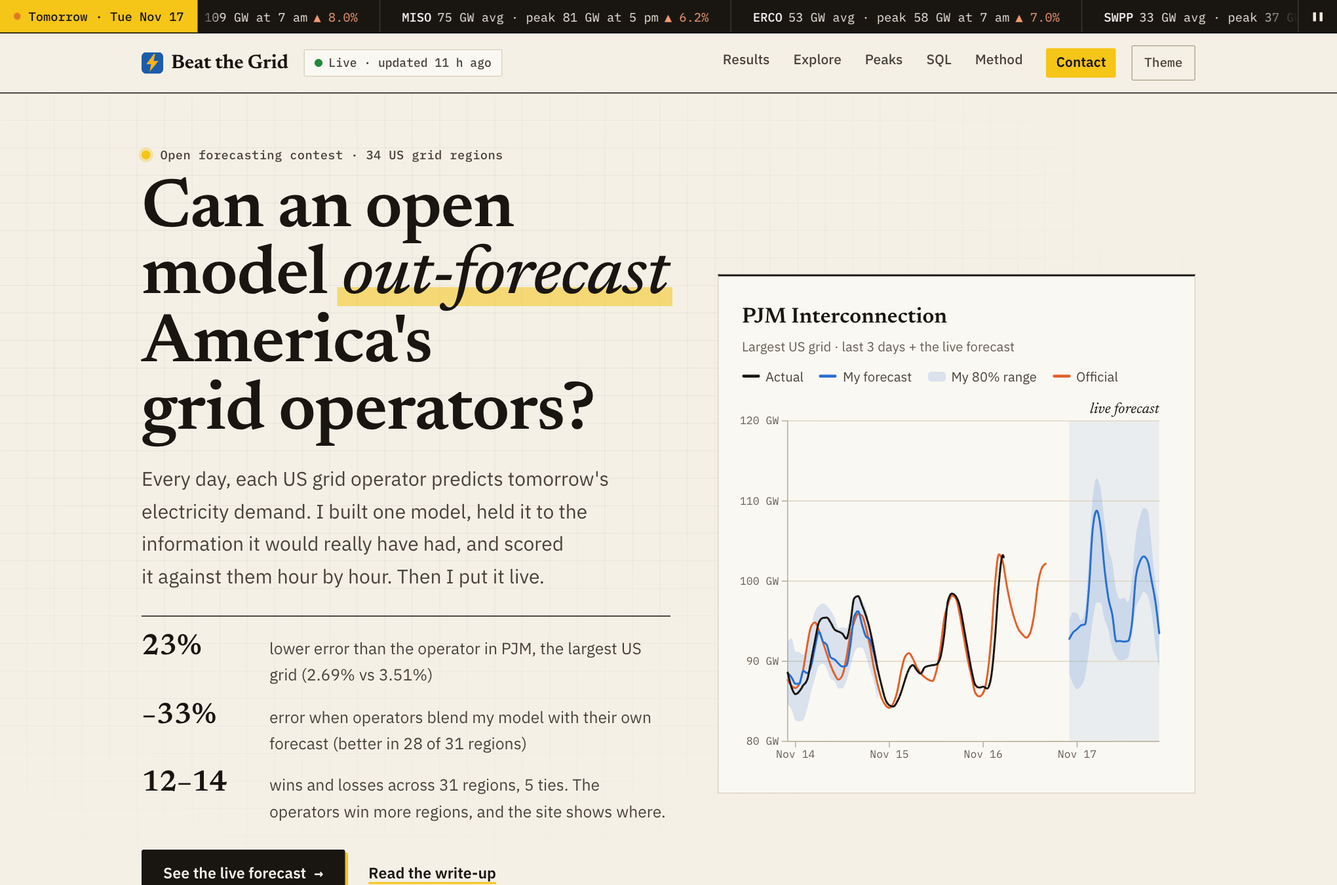
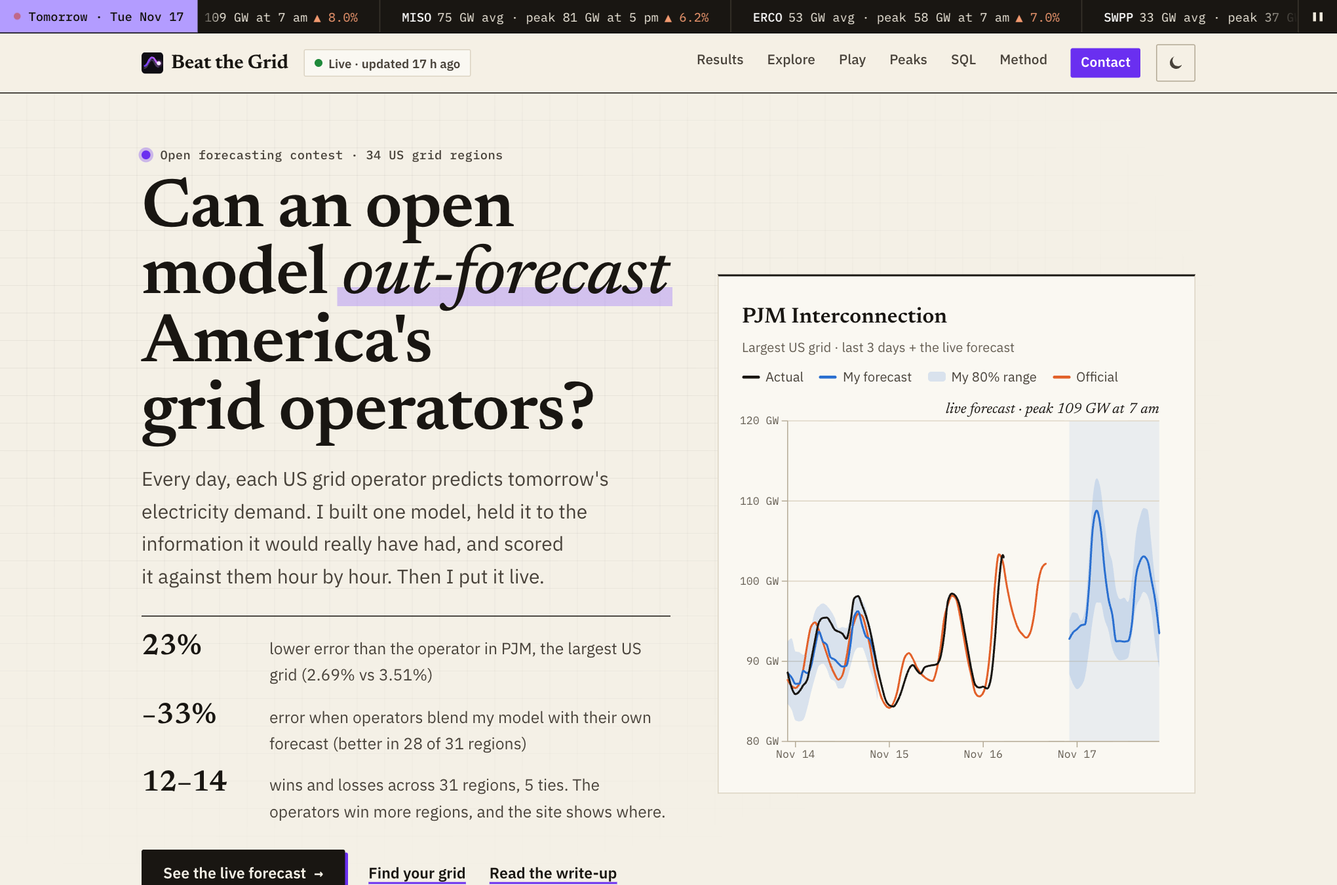
Violet brand accent, less mono, shorter blend table

diff --git a/docs/style.css b/docs/style.css
@@ -11,7 +11,7 @@
 @font-face{font-family:"IBM Plex Mono";src:url("fonts/ibm-plex-mono-latin-400-normal.woff2") format("woff2");font-weight:400;font-style:normal;font-display:swap}
 @font-face{font-family:"IBM Plex Mono";src:url("fonts/ibm-plex-mono-latin-500-normal.woff2") format("woff2");font-weight:500 900;font-style:normal;font-display:swap}
 
-/* Palette: newsprint and ink, with one high-voltage yellow used sparingly */
+/* Palette: newsprint and ink, with one violet brand accent (the logo's) used sparingly */
 :root{
   color-scheme: light;
   --font: "IBM Plex Sans", system-ui, -apple-system, "Segoe UI", sans-serif;
@@ -23,7 +23,7 @@
   --ours:#2a6fd0; --ours-band:rgba(42,111,208,.16); --official:#e2612a; --actual:#191612; --ours-text:#1b4f97; --official-text:#a1401a;
   --good:#1f8a3b; --good-text:#1d6b33; --bad:#c9412f; --tie:#8a8375; --warn:#a86d00; --mid:#e3dccb;
   --live:rgba(42,111,208,.08);
-  --volt:#f5c518; --you:#7a3cff; --hl:rgba(245,197,24,.55); --paper-line:rgba(25,22,18,.055);
+  --brand:#6a2ff0; --brand-ink:#fff; --brand-bright:#b39cff; --you:var(--brand); --hl:rgba(140,95,255,.32); --paper-line:rgba(25,22,18,.055);
   --shadow:none;
   --s1:4px; --s2:8px; --s3:12px; --s4:16px; --s5:24px; --s6:32px; --s7:48px; --s8:88px;
   --r-sm:3px; --r:3px; --r-lg:4px;
@@ -37,7 +37,7 @@
     --ours:#4b8fe8; --ours-band:rgba(75,143,232,.22); --official:#ec7440; --actual:#f2ede3; --ours-text:#8ab4f0; --official-text:#f39a70;
     --good:#3fb15f; --good-text:#62c47c; --bad:#e2705f; --tie:#8a8375; --warn:#e0a526; --mid:#2a2620;
     --live:rgba(75,143,232,.10);
-    --volt:#f5c518; --you:#b18cff; --hl:rgba(245,197,24,.28); --paper-line:rgba(242,237,227,.05);
+    --brand:#b39cff; --brand-ink:#14120f; --brand-bright:#b39cff; --you:var(--brand); --hl:rgba(160,125,255,.30); --paper-line:rgba(242,237,227,.05);
   }
 }
 :root[data-theme="dark"]{
@@ -48,7 +48,7 @@
   --ours:#4b8fe8; --ours-band:rgba(75,143,232,.22); --official:#ec7440; --actual:#f2ede3; --ours-text:#8ab4f0; --official-text:#f39a70;
   --good:#3fb15f; --good-text:#62c47c; --bad:#e2705f; --tie:#8a8375; --warn:#e0a526; --mid:#2a2620;
   --live:rgba(75,143,232,.10);
-  --volt:#f5c518; --you:#b18cff; --hl:rgba(245,197,24,.28); --paper-line:rgba(242,237,227,.05);
+  --brand:#b39cff; --brand-ink:#14120f; --brand-bright:#b39cff; --you:var(--brand); --hl:rgba(160,125,255,.30); --paper-line:rgba(242,237,227,.05);
 }
 
 /* ---- base ---- */
@@ -399,6 +399,7 @@ section.band-dark{
   --grid:#253043; --axis:#33405a; --ring:rgba(255,255,255,.10); --link:#7fb2ef;
   --ours:#3f8deb; --ours-band:rgba(63,141,235,.24); --official:#e5662f; --actual:#f0efec;
   --ours-text:#8dbbf2; --official-text:#f39a70; --live:rgba(63,141,235,.12);
+  --brand:#b39cff; --brand-ink:#0e1520; --hl:rgba(160,125,255,.30);
   --shadow:0 1px 2px rgba(0,0,0,.35),0 10px 30px rgba(0,0,0,.30);
   background:var(--page);color:var(--ink);border-top:0
 }
@@ -437,10 +438,10 @@ main{counter-reset:sec}
 section{counter-increment:sec;border-top:1px solid var(--ink)}
 section.alt{border-top-color:var(--ink)}
 .kicker{display:flex;align-items:center;gap:12px;font-family:var(--mono);font-size:12.5px;font-weight:500;letter-spacing:.02em;text-transform:none;color:var(--ink2);margin:0 0 var(--s4)}
-.kicker::before{content:counter(sec,decimal-leading-zero);font-weight:500;color:var(--ink);background:var(--volt);padding:1px 6px;border-radius:2px;color:#191612}
+.kicker::before{content:counter(sec,decimal-leading-zero);font-weight:500;background:var(--brand);padding:1px 6px;border-radius:2px;color:var(--brand-ink)}
 .kicker::after{content:"";flex:1;border-top:1px solid var(--grid);min-width:24px}
 .eyebrow{font-family:var(--mono);font-size:12.5px;font-weight:500;letter-spacing:.02em;text-transform:none;color:var(--ink2);display:inline-flex;align-items:center;gap:10px}
-.eyebrow::before{content:"";width:9px;height:9px;border-radius:50%;background:var(--volt);box-shadow:0 0 0 3px color-mix(in srgb,var(--volt) 30%,transparent)}
+.eyebrow::before{content:"";width:9px;height:9px;border-radius:50%;background:var(--brand);box-shadow:0 0 0 3px color-mix(in srgb,var(--brand) 30%,transparent)}
 
 /* Highlighter on the key phrase of each takeaway */
 .takeaway b,.lede b,.verdict-sub b{font-weight:600;background:linear-gradient(transparent 60%,var(--hl) 60%,var(--hl) 94%,transparent 94%)}
@@ -459,14 +460,14 @@ section.alt{border-top-color:var(--ink)}
 .hero-card{border:1px solid var(--ink);border-radius:2px;box-shadow:6px 6px 0 var(--ink)}
 .hero-card figcaption b{font-family:var(--serif);font-size:22px;font-weight:600}
 
-/* Buttons: ink block, volt on hover */
-.btn{background:var(--ink);color:var(--page);border-radius:2px;font-weight:600;box-shadow:3px 3px 0 var(--volt);transition:transform .12s,box-shadow .12s,background .12s}
+/* Buttons: ink block with a violet offset shadow */
+.btn{background:var(--ink);color:var(--page);border-radius:2px;font-weight:600;box-shadow:3px 3px 0 var(--brand);transition:transform .12s,box-shadow .12s,background .12s}
 .btn::after{content:"→";font-family:var(--mono);transition:transform .12s}
-.btn:hover{filter:none;transform:translate(-1px,-1px);box-shadow:4px 4px 0 var(--volt)}
+.btn:hover{filter:none;transform:translate(-1px,-1px);box-shadow:4px 4px 0 var(--brand)}
 .btn:hover::after{transform:translateX(3px)}
 :root[data-theme="dark"] .btn{color:var(--page)}
 @media (prefers-color-scheme: dark){:root:where(:not([data-theme="light"])) .btn{color:var(--page)}}
-.cta-row .secondary{text-decoration-color:var(--volt);text-decoration-thickness:2px;text-underline-offset:4px}
+.cta-row .secondary{text-decoration-color:var(--brand);text-decoration-thickness:2px;text-underline-offset:4px}
 
 /* Cards and tiles: ruled boxes, no floating shadows */
 .card{border:1px solid var(--grid);border-top:2px solid var(--ink);border-radius:0;box-shadow:none}
@@ -478,8 +479,8 @@ section.alt{border-top-color:var(--ink)}
 .verdict .of{font-family:var(--serif);font-style:italic;font-weight:400;font-size:clamp(20px,2.6vw,28px)}
 .why{border-radius:0;border:1px solid var(--grid);border-left:3px solid var(--ours);background:color-mix(in srgb,var(--ours) 5%,var(--surface))}
 .why h3{font-family:var(--serif);font-size:22px;font-weight:600}
-.live-tag{font-family:var(--mono);letter-spacing:.02em;text-transform:none;border-radius:2px;background:var(--volt);color:#191612;font-weight:500}
-.week{border-radius:0;border-left:3px solid var(--volt)}
+.live-tag{font-family:var(--mono);letter-spacing:.02em;text-transform:none;border-radius:2px;background:var(--brand);color:var(--brand-ink);font-weight:500}
+.week{border-radius:0;border-left:3px solid var(--brand)}
 .week h3{font-family:var(--serif);font-size:22px;font-weight:600}
 
 /* Data voice: mono for labels, axes, controls and table heads */
@@ -495,7 +496,7 @@ section.alt{border-top-color:var(--ink)}
 .tip{border-radius:2px;border:1px solid var(--ink);box-shadow:4px 4px 0 color-mix(in srgb,var(--ink) 18%,transparent)}
 .tip .t{font-family:var(--serif);font-size:15px}
 .pill{border-radius:2px;font-family:var(--mono);font-size:12px}
-.notice{border-radius:2px;border:1px solid var(--ink);box-shadow:5px 5px 0 var(--volt)}
+.notice{border-radius:2px;border:1px solid var(--ink);box-shadow:5px 5px 0 var(--brand)}
 .miss h3{font-family:var(--serif);font-size:22px;font-weight:600}
 .miss .when{font-family:var(--mono);font-size:12px}
 form input,form textarea{border-radius:2px}
@@ -505,11 +506,11 @@ form input,form textarea{border-radius:2px}
 .topnav{border-bottom:1px solid var(--ink)}
 .brand{font-family:var(--serif);font-size:20px;font-weight:650;letter-spacing:-.01em}
 .navlinks a{font-size:14px}
-.navcta{color:var(--ink)!important;background:var(--volt);padding:3px 10px;border-radius:2px;text-decoration:none}
+.navcta{color:var(--ink)!important;background:var(--brand);padding:3px 10px;border-radius:2px;text-decoration:none}
 
 /* Live ticker: tomorrow's forecast scrolling like a control-room board */
 .ticker{background:#191612;color:#efe9dc;font-family:var(--mono);font-size:12.5px;height:34px;overflow:hidden;position:relative;display:flex;align-items:center;border-bottom:1px solid #000}
-.ticker .tk-label{flex:none;height:100%;display:flex;align-items:center;gap:8px;padding:0 14px;background:var(--volt);color:#191612;font-weight:500;position:relative;z-index:1}
+.ticker .tk-label{flex:none;height:100%;display:flex;align-items:center;gap:8px;padding:0 14px;background:var(--brand-bright);color:#14120f;font-weight:500;position:relative;z-index:1}
 .ticker .tk-label::before{content:"";width:7px;height:7px;border-radius:50%;background:#c9412f;animation:tkblink 1.6s infinite}
 @keyframes tkblink{50%{opacity:.25}}
 .ticker .tk-view{flex:1;overflow:hidden;height:100%;display:flex;align-items:center;-webkit-mask-image:linear-gradient(90deg,transparent,#000 24px,#000 calc(100% - 40px),transparent);mask-image:linear-gradient(90deg,transparent,#000 24px,#000 calc(100% - 40px),transparent)}
@@ -536,11 +537,11 @@ section.band-dark .card{border-color:#253043;border-top-color:#f0efec}
 section.band-dark .tile{border-top-color:#3a4658}
 .ticker .tk-set{display:flex}
 .ticker a.tk-item{color:inherit;text-decoration:none}
-.ticker a.tk-item:hover b{text-decoration:underline;text-decoration-color:var(--volt)}
+.ticker a.tk-item:hover b{text-decoration:underline;text-decoration-color:var(--brand-bright)}
 .ticker.paused .tk-track{animation-play-state:paused}
 .ticker .tk-pause{flex:none;height:100%;width:38px;border:0;border-left:1px solid #3a352d;background:#191612;color:#efe9dc;font:inherit;font-size:11px;cursor:pointer}
-.ticker .tk-pause:hover{color:var(--volt)}
-.ticker .tk-pause:focus-visible,.ticker a.tk-item:focus-visible{outline:2px solid var(--volt);outline-offset:-2px}
+.ticker .tk-pause:hover{color:var(--brand-bright)}
+.ticker .tk-pause:focus-visible,.ticker a.tk-item:focus-visible{outline:2px solid var(--brand-bright);outline-offset:-2px}
 @media (prefers-reduced-motion: reduce){.ticker .tk-pause{display:none}}
 h1,h2,.takeaway,.lede{text-wrap:balance}
 h1{max-width:9.16em;font-size:clamp(42px,5.8vw,70px)}   /* em, not ch: ch changes with the font, so the box would resize when the web font arrives */
@@ -550,7 +551,7 @@ h2{max-width:14.43em}
 .hero{padding-top:var(--s7)}
 .findings li{grid-template-columns:118px 1fr}
 @media (max-width:640px){.findings li{grid-template-columns:96px 1fr}.findings b{font-size:26px}.ticker .tk-day{display:none}.ticker .tk-label{padding:0 10px}}
-.navcta,.navcta:hover{color:#191612!important}
+.navcta,.navcta:hover{color:var(--brand-ink)!important}
 .ticker a.tk-item{display:inline-flex;align-items:center;gap:6px;height:34px;padding:0 22px}
 .ticker .tk-pause{min-width:40px}
 /* "Can you beat the model?" */
@@ -590,7 +591,7 @@ h2{max-width:14.43em}
 @media print{
   :root,:root[data-theme="dark"],:root:where(:not([data-theme="light"])){
     color-scheme:light;--page:#fff;--page-alt:#fff;--surface:#fff;--ink:#111;--ink2:#2b2823;--muted:#4a453d;
-    --grid:#d8d2c4;--axis:#9d9483;--link:#1b4f97;--ours:#2a6fd0;--official:#e2612a;--actual:#111;--hl:rgba(245,197,24,.45)}
+    --grid:#d8d2c4;--axis:#9d9483;--link:#1b4f97;--ours:#2a6fd0;--official:#e2612a;--actual:#111;--hl:rgba(140,95,255,.22);--brand:#6a2ff0;--brand-ink:#fff}
   body{background:#fff;color:#111}
 }
 /* Phone menu, theme icon, reading progress, back to top */
@@ -601,12 +602,12 @@ h2{max-width:14.43em}
 .menu-panel{position:absolute;left:0;right:0;top:100%;background:var(--page);border-bottom:1px solid var(--ink);box-shadow:0 12px 24px rgba(0,0,0,.12);padding:6px 16px 14px;display:grid;grid-template-columns:1fr 1fr;gap:0 16px;max-height:calc(100vh - 120px);overflow:auto}
 .menu-panel a{display:flex;gap:10px;align-items:baseline;padding:11px 4px;border-bottom:1px solid var(--grid);color:var(--ink);text-decoration:none;font-weight:500}
 .menu-panel a span{font-family:var(--mono);font-size:12px;color:var(--muted)}
-.menu-panel a:hover,.menu-panel a:focus-visible{background:color-mix(in srgb,var(--volt) 22%,transparent)}
+.menu-panel a:hover,.menu-panel a:focus-visible{background:color-mix(in srgb,var(--brand) 22%,transparent)}
 @media (max-width:420px){.menu-panel{grid-template-columns:1fr}}
 @media (min-width:901px){.menu-panel{display:none!important}}
-.progress{position:absolute;left:0;right:0;bottom:-1px;height:3px;background:var(--volt);transform-origin:0 50%;transform:scaleX(0);pointer-events:none}
-.to-top{position:fixed;right:18px;bottom:18px;z-index:35;width:44px;height:44px;display:grid;place-items:center;background:var(--ink);color:var(--page);border-radius:2px;box-shadow:3px 3px 0 var(--volt);text-decoration:none}
-.to-top:hover{transform:translate(-1px,-1px);box-shadow:4px 4px 0 var(--volt)}
+.progress{position:absolute;left:0;right:0;bottom:-1px;height:3px;background:var(--brand);transform-origin:0 50%;transform:scaleX(0);pointer-events:none}
+.to-top{position:fixed;right:18px;bottom:18px;z-index:35;width:44px;height:44px;display:grid;place-items:center;background:var(--ink);color:var(--page);border-radius:2px;box-shadow:3px 3px 0 var(--brand);text-decoration:none}
+.to-top:hover{transform:translate(-1px,-1px);box-shadow:4px 4px 0 var(--brand)}
 @media print{.progress,.to-top,.menu-btn,.menu-panel{display:none!important}}
 .game-chart:focus-visible{outline:3px solid var(--you);outline-offset:4px}
 .game-keys{margin:0 0 var(--s2)}
@@ -623,4 +624,15 @@ h2{max-width:14.43em}
 .term:hover,.term:focus-visible{text-decoration-color:var(--ink);background:var(--hl);outline:none}
 .tip .def{color:var(--ink2);max-width:34ch;font-size:13px;line-height:1.5}
 .follow{font-family:var(--mono);font-size:13px;color:var(--ink2);margin:calc(-1 * var(--s4)) 0 var(--s5)}
-.follow a{color:var(--volt)}
+.follow a{color:var(--brand-bright)}
+/* Mono only where it means "data" (numbers, axes, the ticker, section numbers, dates); controls and labels use the text face */
+.chip,.seg button,.ghost,select,.badge,.badge-r,.pill,.live-tag,.game-record,.follow,.menu-btn,.field-inline,.game-day-label{font-family:var(--font)}
+.chip,.seg button,.ghost{font-size:14px;font-weight:500}
+select{font-size:15px}
+.field-inline,.game-day-label{font-weight:600;font-size:11.5px;letter-spacing:.06em}
+.badge,.pill{font-size:12.5px}
+.badge-r{font-size:12.5px;font-weight:600}
+.live-tag{font-size:11px;font-weight:600;letter-spacing:.06em;text-transform:uppercase}
+.follow{font-size:14px}
+table.heat:not(.all) tr.extra{display:none}
+#blendMore{margin-top:var(--s3)}

diff --git a/docs/changelog.html b/docs/changelog.html
@@ -16,7 +16,7 @@
 <link rel="apple-touch-icon" href="/beat-the-grid/apple-touch-icon.png">
 <link rel="preload" href="/beat-the-grid/fonts/newsreader-latin-wght-normal.woff2" as="font" type="font/woff2" crossorigin>
 <link rel="preload" href="/beat-the-grid/fonts/ibm-plex-sans-latin-400-normal.woff2" as="font" type="font/woff2" crossorigin>
-<link rel="stylesheet" href="/beat-the-grid/style.css?v=b181cfb4bb">
+<link rel="stylesheet" href="/beat-the-grid/style.css?v=15284a6b13">
 </head>
 <body>
 <a class="skip" href="#main">Skip to content</a>
@@ -28,7 +28,7 @@
 <main class="page" id="main"><div class="wrap">
 <div class="log"><h1>Changelog</h1><p class="lede">Every change to the model or the method is listed here. The live record always says which model version made each forecast.</p>
 <h2>Live system <small>2026-11-16</small></h2><ul><li>First valid live forecast issued for 2026-11-17 (all 34 regions). GitHub started the scheduled job 2 h 43 min late; the 06:00 UTC data cutoff is the same whenever it runs.</li><li>Reliability: two backup runs a day (13:30 and 16:00 UTC), exact package versions pinned so the frozen model gives identical forecasts, and an automatic GitHub issue if a run fails.</li><li>Safeguard: a forecast can no longer be issued before 12:00 UTC on the day before. A manual test run started just after midnight UTC began building the next day's forecast too early; it was cancelled before anything was saved.</li><li>Added 'Live vs the backtest' (each live day against the backtest's normal range) and an automatic weekly summary. Both appear once days are scored.</li></ul>
-<h2>Website <small>2026-11-16</small></h2><ul><li>New editorial design: Newsreader headlines with IBM Plex text and data labels (all self-hosted), numbered sections, and a live ticker of each region's forecast.</li><li>Engineering: the site's JavaScript is now ES modules, and every push runs ruff, ESLint, the Python tests and 12 browser tests in real Chrome.</li><li>Easier to use: a section menu on phones, 'Find your grid' by state, links that open an exact explorer view, plain-language definitions for the jargon, keyboard play and score sharing in the game, an RSS feed of the live record, a reading-progress line, back-to-top and a sun/moon theme switch.</li><li>New: 'Can you beat the model?', a game where you draw your own forecast for a real past day and get scored against my model and the grid operator.</li><li>Charts now label their own key points (best and worst hours and months, the live forecast's peak), a short 'Why I built this' note, and a 404 page that has lost power.</li><li>New logo in violet and black: two forecasts racing to one point. The violet line (my model) lands on the glowing dot, what actually happened; the dim one (the official forecast) ends just off it.</li><li>One color scheme throughout: blue for my model, orange for the operators (the map and result tags used green and red).</li><li>Shorter tables with 'Show all', readable dates, a larger hero chart, a dark band for the live record, and table rows that become cards on phones.</li><li>Fixed menu links landing short of their section, and stale cache stamps on the site's scripts.</li><li>On GitHub: tests now run on every push, a data dictionary (DATA.md), an analysis notebook, and a v1.0 release with the frozen model.</li></ul>
+<h2>Website <small>2026-11-16</small></h2><ul><li>New editorial design: Newsreader headlines with IBM Plex text and data labels (all self-hosted), numbered sections, and a live ticker of each region's forecast.</li><li>Brand accent changed from yellow to the logo's violet; buttons and labels use the text face (mono is kept for data); the 'Better together' table shows 10 regions with 'Show all'.</li><li>Engineering: the site's JavaScript is now ES modules, and every push runs ruff, ESLint, the Python tests and 12 browser tests in real Chrome.</li><li>Easier to use: a section menu on phones, 'Find your grid' by state, links that open an exact explorer view, plain-language definitions for the jargon, keyboard play and score sharing in the game, an RSS feed of the live record, a reading-progress line, back-to-top and a sun/moon theme switch.</li><li>New: 'Can you beat the model?', a game where you draw your own forecast for a real past day and get scored against my model and the grid operator.</li><li>Charts now label their own key points (best and worst hours and months, the live forecast's peak), a short 'Why I built this' note, and a 404 page that has lost power.</li><li>New logo in violet and black: two forecasts racing to one point. The violet line (my model) lands on the glowing dot, what actually happened; the dim one (the official forecast) ends just off it.</li><li>One color scheme throughout: blue for my model, orange for the operators (the map and result tags used green and red).</li><li>Shorter tables with 'Show all', readable dates, a larger hero chart, a dark band for the live record, and table rows that become cards on phones.</li><li>Fixed menu links landing short of their section, and stale cache stamps on the site's scripts.</li><li>On GitHub: tests now run on every push, a data dictionary (DATA.md), an analysis notebook, and a v1.0 release with the frozen model.</li></ul>
 <h2>Live system <small>2026-11-15</small></h2><ul><li>Launch: first live forecast issued 12:01 UTC for 2026-11-16.</li><li>Bug found within the hour: the live job read demand only from EIA's bulk files (over a day behind) and only 45 days of history, so four demand inputs the model always had in the backtest were blank. The 2026-11-16 forecast was voided before the day began, kept unchanged in the log, and is not scored.</li><li>Fix: the live job now reads EIA's real-time Grid Monitor feed (about an hour behind, matching the backtest's 06:00 UTC data cutoff) plus a full year of history. A dry run confirmed live inputs now match the backtest. Scoring still uses EIA's cleaned bulk data only.</li></ul>
 <h2>Model v1 <small>2026-11-15</small></h2><ul><li>Model frozen for the live contest (trained through 2026-11-14).</li><li>Walk-forward backtest July 2024 – November 2026 across 34 regions, with Diebold-Mariano tests and Holm correction.</li><li>Added the 'Model + operator' blend, illustrative dollar value, worst-day analysis and per-forecast explanations.</li><li>Tested five weather cities per region instead of three on the never-scored tuning window; no gain, not adopted.</li><li>Fixed before launch: missing 2022–23 weather was averaged as zero; the unreliable-data rule used the mean instead of the median; added a symmetric glitch filter.</li></ul>
 <h2>Website <small>2026-11-15</small></h2><ul><li>Added the peak contest: who calls each day's highest hour better (the operators do, 19 regions to 10).</li><li>Added a SQL console: DuckDB in the browser over every scored hour, region and daily peak, with example queries and CSV download.</li><li>Storm-warning experiment (National Weather Service archive): helps hurricane days by 13–35% in the backtest; documented, not adopted until confirmed on new storms.</li><li>Added a live track-record calendar that compares the live error with the backtest.</li><li>Redesigned site: self-hosted Inter typeface, live hero chart, map labels and filters, monthly trend lines, 7/14/30-day explorer with region comparison and CSV download.</li><li>Accessibility: skip link, keyboard-operable map, WCAG AA text contrast, screen-reader descriptions for every chart, reduced-motion support.</li><li>Privacy policy, terms, contact form with validation and spam protection, printable write-up and PDF.</li></ul>

diff --git a/docs/js/analysis.js b/docs/js/analysis.js
@@ -1,8 +1,8 @@
 /* When the model wins: by hour, by month, on peak days; the peak contest; the blend; the worst days. */
-import { st } from "./state.js?v=b26b5e6139";
-import { $, $$, MINUS, VERDICT, css, fail, fd, hideTip, pct, row, showTip } from "./util.js?v=b26b5e6139";
-import { lineChart } from "./charts.js?v=b26b5e6139";
-import { observeReveal } from "./main.js?v=b26b5e6139";
+import { st } from "./state.js?v=45fc8122f9";
+import { $, $$, MINUS, VERDICT, css, fail, fd, hideTip, pct, row, showTip } from "./util.js?v=45fc8122f9";
+import { lineChart } from "./charts.js?v=45fc8122f9";
+import { observeReveal } from "./main.js?v=45fc8122f9";
 
 /* ---------- when we win ---------- */
 export function renderWhen() {
@@ -141,8 +141,13 @@ export function renderBlend() {
   const ramp = d3.interpolateRgb(dark ? "#1d2a3a" : "#e7f0fc", dark ? "#6da7ec" : "#1c5cab");
   const ink = (w) => (dark ? (w > 0.6 ? "#0b0b0b" : "#f0efec") : (w > 0.5 ? "#ffffff" : "#0b0b0b"));
   $("#blendTable").innerHTML = `<caption class="sr-only">Blend weights by region and time of day</caption><thead><tr><th>Region</th>${Object.values(parts).map((p) => `<th class="num">${p}</th>`).join("")}</tr></thead><tbody>` +
-    rows.map((d) => `<tr><td class="reg"><b>${d.name}</b><span>${d.ba}</span></td>` +
+    rows.map((d, i) => `<tr${i >= 10 ? ' class="extra"' : ""}><td class="reg"><b>${d.name}</b><span>${d.ba}</span></td>` +
       Object.keys(parts).map((k) => { const w = W[d.ba][k]; return `<td class="w" style="background:${ramp(w)};color:${ink(w)}" title="${d.name}, ${parts[k]}: ${Math.round(w * 100)}% my model">${Math.round(w * 100)}%</td>`; }).join("") + `</tr>`).join("") + `</tbody>`;
+  const more = $("#blendMore"), table = $("#blendTable");
+  more.hidden = rows.length <= 12;
+  const label = () => { const all = table.classList.contains("all"); more.textContent = all ? "Show the 10 largest only" : `Show all ${rows.length} regions`; more.setAttribute("aria-expanded", String(all)); };
+  label();
+  more.onclick = () => { table.classList.toggle("all"); label(); };
   const t = V.totals;
   $("#valueNote").innerHTML = (t ? `<p>Over a year, the official forecasts in these regions mis-forecast about <b>${d3.format(",.0f")(t.gwh_official / 1000)} TWh</b> of electricity; the blend, <b>${d3.format(",.0f")(t.gwh_blend / 1000)} TWh</b>. At average 2026 wholesale prices that energy is worth about <b>$${(t.usd_official / 1e9).toFixed(1)} billion</b> versus <b>$${(t.usd_blend / 1e9).toFixed(1)} billion</b> a year. That's an illustration of scale, not a cost estimate: the real cost of forecast errors depends on reserves and balancing markets and is a fraction of the energy's value. Prices: ${V.price_source}.</p>` : "") +
     `<p>How it was tested: for each quarter, the weights were learned only from earlier quarters, where my forecasts were themselves out-of-sample. The first quarter used a plain 50/50 average. This answers a different question from the contest (the operator's forecast may be published after my issue time): how much would an operator gain by adding my model to its own?</p>`;

diff --git a/docs/404.html b/docs/404.html
@@ -16,19 +16,19 @@
 <link rel="apple-touch-icon" href="/beat-the-grid/apple-touch-icon.png">
 <link rel="preload" href="/beat-the-grid/fonts/newsreader-latin-wght-normal.woff2" as="font" type="font/woff2" crossorigin>
 <link rel="preload" href="/beat-the-grid/fonts/ibm-plex-sans-latin-400-normal.woff2" as="font" type="font/woff2" crossorigin>
-<link rel="stylesheet" href="/beat-the-grid/style.css?v=b181cfb4bb">
+<link rel="stylesheet" href="/beat-the-grid/style.css?v=15284a6b13">
 <style>
 body.blackout-page{background:#0b0a09}
 .blackout{position:relative;min-height:68vh;display:grid;place-items:center;text-align:center;padding:72px 0;isolation:isolate}
 .blackout .lit{position:relative;z-index:3}
-.blackout .code{font-family:var(--mono);font-size:13px;letter-spacing:.04em;color:#f5c518;margin:0 0 14px}
+.blackout .code{font-family:var(--mono);font-size:13px;letter-spacing:.04em;color:#b39cff;margin:0 0 14px}
 .blackout h1{color:#f2ede3;max-width:none;margin:0 auto 14px;font-size:clamp(40px,7vw,84px)}
 .blackout .lede{color:#cbc3b5;margin:0 auto 28px;max-width:46ch}
-.blackout .power{display:inline-flex;align-items:center;gap:10px;background:#f5c518;color:#191612;font-weight:600;padding:12px 22px;border-radius:2px;text-decoration:none;box-shadow:0 0 0 6px rgba(245,197,24,.15),0 0 40px rgba(245,197,24,.35)}
+.blackout .power{display:inline-flex;align-items:center;gap:10px;background:#b39cff;color:#14120f;font-weight:600;padding:12px 22px;border-radius:2px;text-decoration:none;box-shadow:0 0 0 6px rgba(179,156,255,.15),0 0 40px rgba(179,156,255,.40)}
 .blackout .power::before{content:"";width:10px;height:10px;border-radius:50%;background:#c9412f;box-shadow:0 0 8px #c9412f}
 .blackout .hidden-room{position:absolute;inset:0;z-index:1;pointer-events:none;color:#efe9dc}
 .blackout .hidden-room span{position:absolute;font-family:var(--serif);font-style:italic;font-size:19px;opacity:.9}
-.blackout .hidden-room a{pointer-events:auto;color:#f5c518}
+.blackout .hidden-room a{pointer-events:auto;color:#b39cff}
 .blackout .mask{position:absolute;inset:-40px -100vw;z-index:2;pointer-events:none;
   background:radial-gradient(circle 150px at var(--x,50%) var(--y,40%),rgba(11,10,9,0) 0,rgba(11,10,9,.15) 55%,rgba(11,10,9,.97) 100%)}
 .blackout.on .mask{opacity:0;transition:opacity .5s}

diff --git a/docs/js/main.js b/docs/js/main.js
@@ -1,13 +1,13 @@
 /* Start-up and navigation: loads the data, draws sections lazily as they approach, and makes in-page jumps land exactly. */
-import { st } from "./state.js?v=b26b5e6139";
-import { $, $$, copyText, fail, reduceMotion } from "./util.js?v=b26b5e6139";
-import { renderFindings, renderHeroChart, renderScoreboard, renderStatus, renderTicker, renderVersion } from "./overview.js?v=b26b5e6139";
-import { renderMap, renderTable, setFilter, toggleTable } from "./regions.js?v=b26b5e6139";
-import { downloadCSV, renderCompare, renderExplorer, renderFindGrid, savedBA, select, syncView, viewFromHash, viewLink } from "./explorer.js?v=b26b5e6139";
-import { bindGlossary, glossify } from "./glossary.js?v=b26b5e6139";
-import { drawGame, game, renderGame } from "./game.js?v=b26b5e6139";
-import { renderBlend, renderMisses, renderPeaks, renderWhen, togglePeaks } from "./analysis.js?v=b26b5e6139";
-import { renderLive } from "./live.js?v=b26b5e6139";
+import { st } from "./state.js?v=45fc8122f9";
+import { $, $$, copyText, fail, reduceMotion } from "./util.js?v=45fc8122f9";
+import { renderFindings, renderHeroChart, renderScoreboard, renderStatus, renderTicker, renderVersion } from "./overview.js?v=45fc8122f9";
+import { renderMap, renderTable, setFilter, toggleTable } from "./regions.js?v=45fc8122f9";
+import { downloadCSV, renderCompare, renderExplorer, renderFindGrid, savedBA, select, syncView, viewFromHash, viewLink } from "./explorer.js?v=45fc8122f9";
+import { bindGlossary, glossify } from "./glossary.js?v=45fc8122f9";
+import { drawGame, game, renderGame } from "./game.js?v=45fc8122f9";
+import { renderBlend, renderMisses, renderPeaks, renderWhen, togglePeaks } from "./analysis.js?v=45fc8122f9";
+import { renderLive } from "./live.js?v=45fc8122f9";
 
 /* ---------- page behaviour: side menu, reveal ---------- */
 export function scrollSpy() {

diff --git a/docs/index.html b/docs/index.html
@@ -31,7 +31,7 @@
 <link rel="preconnect" href="https://cdnjs.cloudflare.com" crossorigin>
 <link rel="preconnect" href="https://cdn.jsdelivr.net" crossorigin>
 <link rel="preload" href="data/summary.json" as="fetch" crossorigin>
-<link rel="stylesheet" href="style.css?v=b181cfb4bb">
+<link rel="stylesheet" href="style.css?v=15284a6b13">
 <script>document.documentElement.classList.add("js");</script>
 <script type="application/ld+json">
 {"@context":"https://schema.org","@type":"WebSite","name":"Beat the Grid","url":"https://maxliston.github.io/beat-the-grid/",
@@ -235,6 +235,7 @@
       <h3>How much an operator should trust my model</h3>
       <p class="cap">Share of the blended forecast that comes from my model, by region and time of day. Darker means more weight on my model; the rest comes from the operator's own forecast.</p>
       <div class="table-wrap"><table class="lb heat" id="blendTable"><caption class="sr-only">Blend weights by region and time of day</caption></table></div>
+      <button type="button" class="ghost" id="blendMore" aria-expanded="false" aria-controls="blendTable" hidden>Show all regions</button>
     </div>
     <details class="more"><summary>What that's worth, and how the blend was tested</summary><div id="valueNote"></div></details>
   </div>
@@ -382,7 +383,7 @@
 <script src="contact.js?v=7475b973ea" defer></script>
 <script src="https://cdnjs.cloudflare.com/ajax/libs/d3/7.9.0/d3.min.js" defer></script>
 <script src="https://cdn.jsdelivr.net/npm/topojson-client@3.1.0/dist/topojson-client.min.js" defer></script>
-<script type="module" src="js/main.js?v=b26b5e6139"></script>
+<script type="module" src="js/main.js?v=45fc8122f9"></script>
 <script type="module" src="sql.js?v=8e488f8717"></script>
 </body>
 </html>

diff --git a/docs/js/game.js b/docs/js/game.js
@@ -1,8 +1,8 @@
 /* 'Can you beat the model?': draw the next 24 hours of a real past day, then compare with my model and the operator. */
-import { st } from "./state.js?v=b26b5e6139";
-import { $, copyText, css, fail, gw, pct, reduceMotion } from "./util.js?v=b26b5e6139";
-import { expand, loadSeries } from "./charts.js?v=b26b5e6139";
-import { savedBA } from "./explorer.js?v=b26b5e6139";
+import { st } from "./state.js?v=45fc8122f9";
+import { $, copyText, css, fail, gw, pct, reduceMotion } from "./util.js?v=45fc8122f9";
+import { expand, loadSeries } from "./charts.js?v=45fc8122f9";
+import { savedBA } from "./explorer.js?v=45fc8122f9";
 
 /* ---------- "Can you beat the model?": draw the next 24 hours, then compare with my model and the operator ---------- */
 export const GAME_LIST = () => st.LB.filter((d) => !d.suspect_official).sort((a, b) => b.mean_mw - a.mean_mw).map((d) => d.ba);

diff --git a/docs/js/explorer.js b/docs/js/explorer.js
@@ -1,8 +1,8 @@
 /* The explorer: one region hour by hour, comparisons, shareable views, 'Find your grid' and the live forecast card. */
-import { st } from "./state.js?v=b26b5e6139";
-import { $, $$, MINUS, css, fail, gw, pct, reduceMotion, relDay, storeGet, storeSet } from "./util.js?v=b26b5e6139";
-import { drawSeries, expand, lastDays, legendHTML, loadSeries, statsHTML } from "./charts.js?v=b26b5e6139";
-import { GAME_LIST, game, newGame } from "./game.js?v=b26b5e6139";
+import { st } from "./state.js?v=45fc8122f9";
+import { $, $$, MINUS, css, fail, gw, pct, reduceMotion, relDay, storeGet, storeSet } from "./util.js?v=45fc8122f9";
+import { drawSeries, expand, lastDays, legendHTML, loadSeries, statsHTML } from "./charts.js?v=45fc8122f9";
+import { GAME_LIST, game, newGame } from "./game.js?v=45fc8122f9";
 
 /* ---------- explorer ---------- */
 export function select(ba) {

diff --git a/docs/js/overview.js b/docs/js/overview.js
@@ -1,8 +1,8 @@
 /* The top of the page: status pill, version badges, hero findings and chart, scoreboard and the live ticker. */
-import { st } from "./state.js?v=b26b5e6139";
-import { $, MINUS, fail, fd, gw, pct, reduceMotion, relDay } from "./util.js?v=b26b5e6139";
-import { drawSeries, expand, legendHTML, loadSeries, slice } from "./charts.js?v=b26b5e6139";
-import { select } from "./explorer.js?v=b26b5e6139";
+import { st } from "./state.js?v=45fc8122f9";
+import { $, MINUS, fail, fd, gw, pct, reduceMotion, relDay } from "./util.js?v=45fc8122f9";
+import { drawSeries, expand, legendHTML, loadSeries, slice } from "./charts.js?v=45fc8122f9";
+import { select } from "./explorer.js?v=45fc8122f9";
 
 /* ---------- status pill + version ---------- */
 export function renderStatus() {

diff --git a/docs/js/regions.js b/docs/js/regions.js
@@ -1,7 +1,7 @@
 /* Region by region: the map and the sortable results table. */
-import { st } from "./state.js?v=b26b5e6139";
-import { $, $$, MINUS, VERDICT, css, fail, gw, hideTip, pct, reduceMotion, row, showTip } from "./util.js?v=b26b5e6139";
-import { select } from "./explorer.js?v=b26b5e6139";
+import { st } from "./state.js?v=45fc8122f9";
+import { $, $$, MINUS, VERDICT, css, fail, gw, hideTip, pct, reduceMotion, row, showTip } from "./util.js?v=45fc8122f9";
+import { select } from "./explorer.js?v=45fc8122f9";
 
 const MAPBASE = "https://cdn.jsdelivr.net/npm/us-atlas@3.0.1/states-albers-10m.json";
 let US = null, filter = "all", sortKey = "mean_mw", sortDir = -1, tableAll = false;

diff --git a/docs/js/live.js b/docs/js/live.js
@@ -1,7 +1,7 @@
 /* The live record: track-record calendar, live versus backtest, weekly summary, region table and voided forecasts. */
-import { st } from "./state.js?v=b26b5e6139";
-import { $, css, fd, hideTip, pct, row, showTip } from "./util.js?v=b26b5e6139";
-import { goExplore } from "./regions.js?v=b26b5e6139";
+import { st } from "./state.js?v=45fc8122f9";
+import { $, css, fd, hideTip, pct, row, showTip } from "./util.js?v=45fc8122f9";
+import { goExplore } from "./regions.js?v=45fc8122f9";
 
 /* ---------- live ---------- */
 export function voidNote(L) {

diff --git a/docs/privacy.html b/docs/privacy.html
@@ -16,7 +16,7 @@
 <link rel="apple-touch-icon" href="/beat-the-grid/apple-touch-icon.png">
 <link rel="preload" href="/beat-the-grid/fonts/newsreader-latin-wght-normal.woff2" as="font" type="font/woff2" crossorigin>
 <link rel="preload" href="/beat-the-grid/fonts/ibm-plex-sans-latin-400-normal.woff2" as="font" type="font/woff2" crossorigin>
-<link rel="stylesheet" href="/beat-the-grid/style.css?v=b181cfb4bb">
+<link rel="stylesheet" href="/beat-the-grid/style.css?v=15284a6b13">
 </head>
 <body>
 <a class="skip" href="#main">Skip to content</a>
